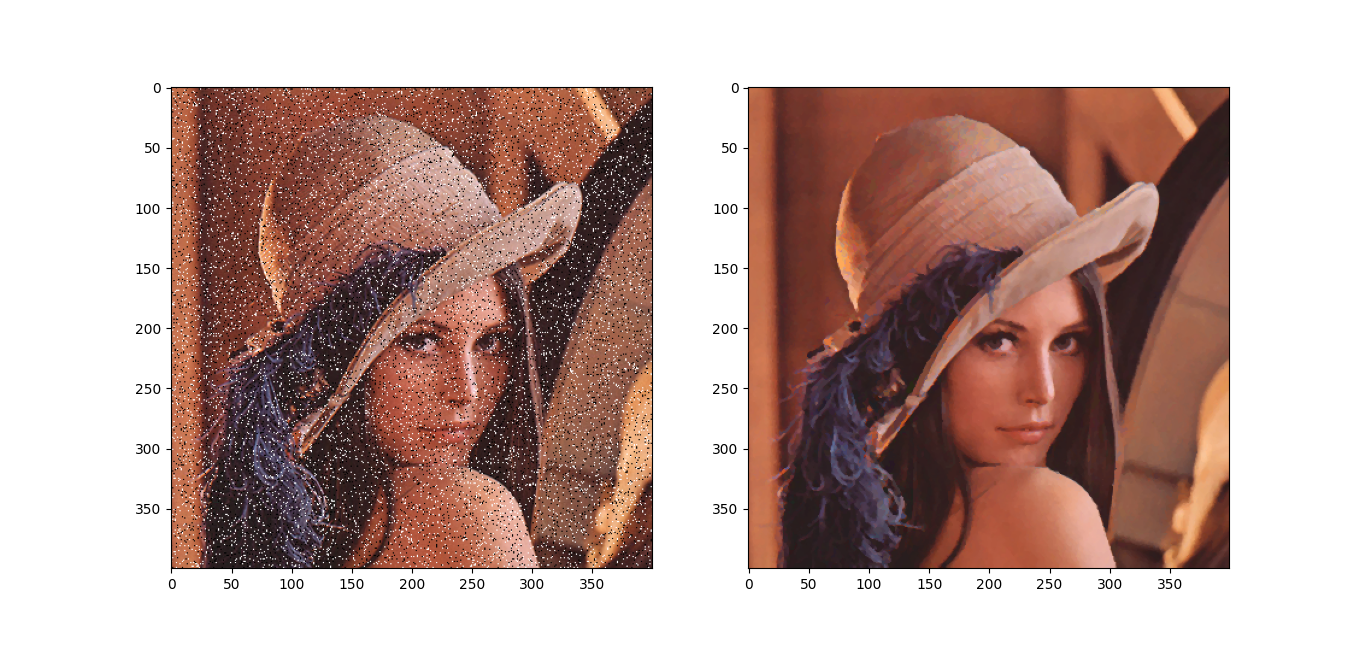
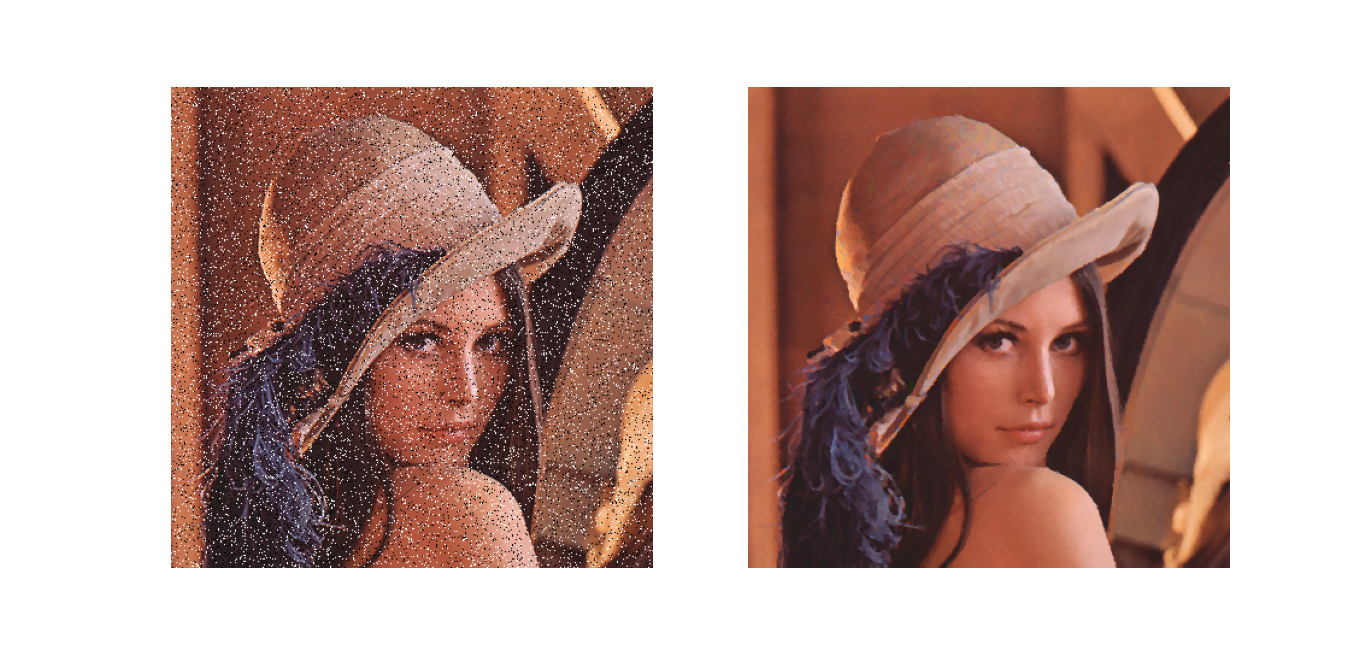
Fodase eixos e readme

diff --git a/plot_images.py b/plot_images.py
@@ -15,6 +15,8 @@ image_B = mpimg.imread(image_B_path)
 
 fig, ax = plt.subplots(1, 2)
 
+ax[0].axis('off')
+ax[1].axis('off')
 ax[0].imshow(image_A)
 ax[1].imshow(image_B)
 plt.show()

diff --git a/README.md b/README.md
@@ -1,0 +1,1 @@
+![comparação de imagens](graphs/comparison_filter.png)
